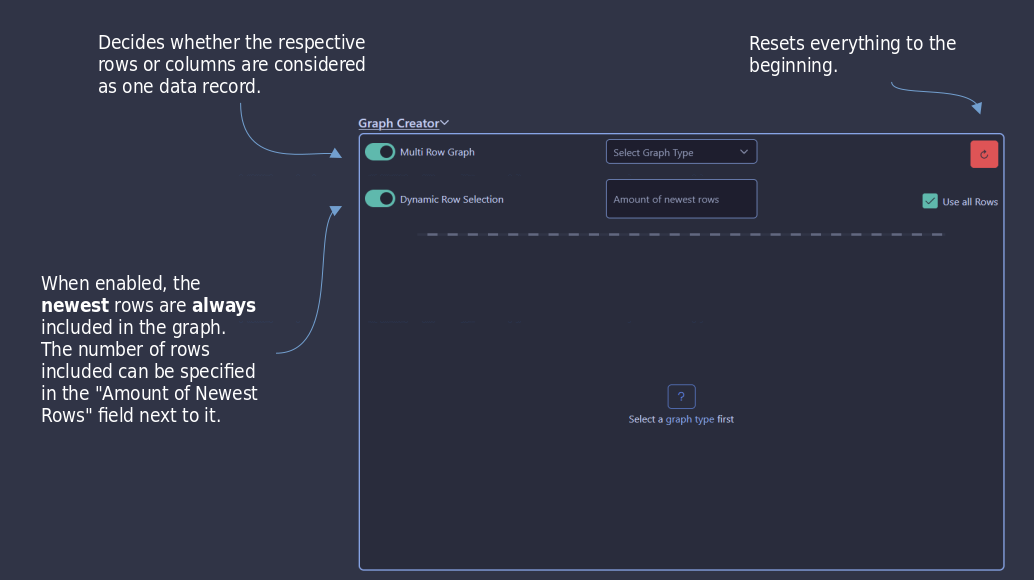
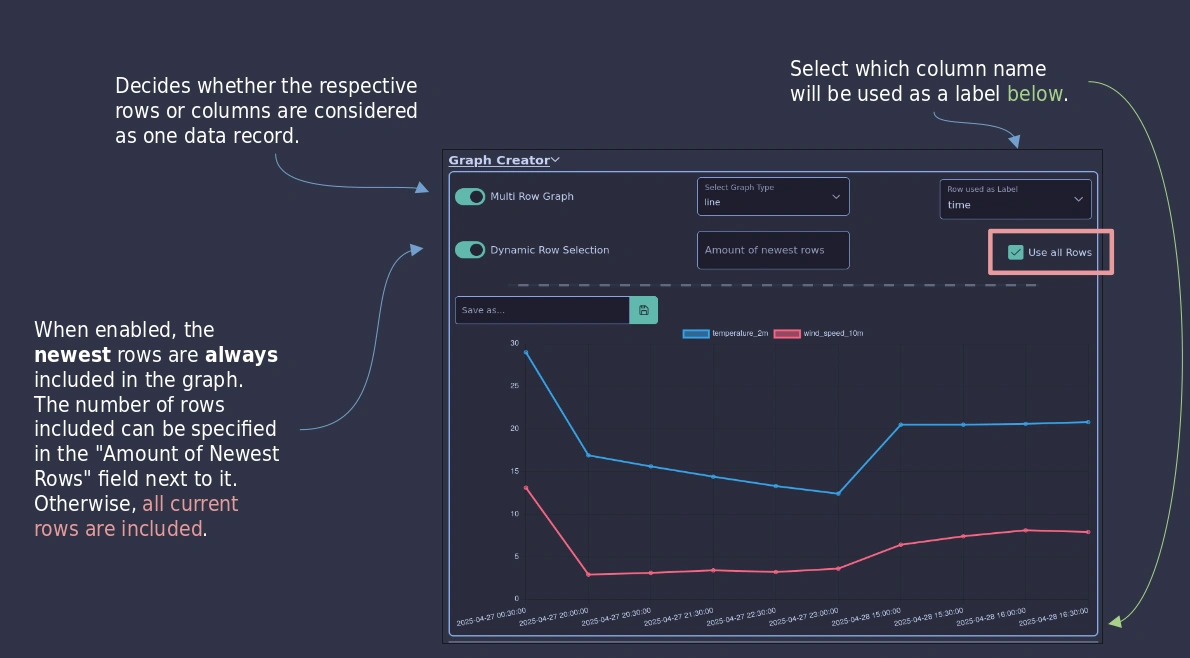
Update label text in GraphInput component for clarity

diff --git a/frontend/src/components/Graphs/GraphInput.vue b/frontend/src/components/Graphs/GraphInput.vue
@@ -68,7 +68,7 @@ const lastSavedTitle = ref<string | undefined>(undefined)
         :option-label="'key'"
         :option-value="'key'"
         v-model="graphConstructor.colUsedAsLabel.value"/>
-        <label>Row used as Label</label>
+        <label>Column used as Label</label>
       </FloatLabel>
     </div>
     <div class="options-grid mt-4">
